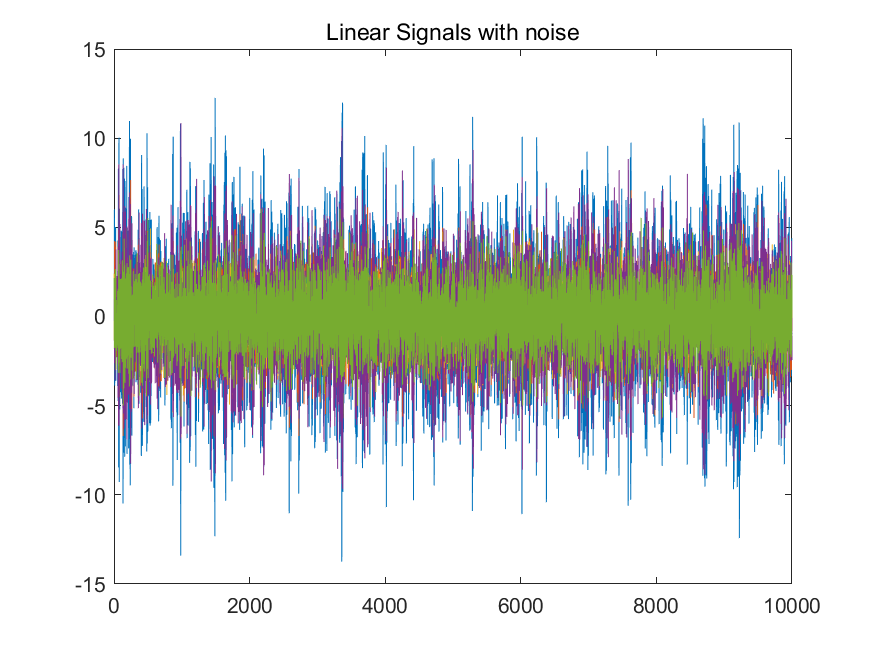
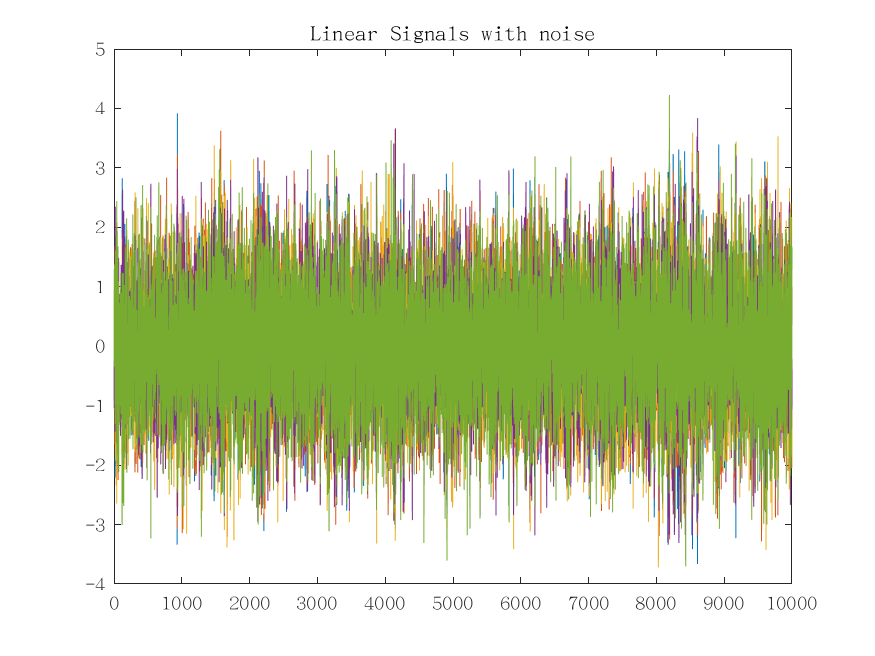
update

diff --git a/seizure_WGCI.py b/seizure_WGCI.py
@@ -3,7 +3,7 @@ import numpy as np
 import torch
 from torch import nn, optim
 
-from core import (Timer, get_Granger_Causality, get_json_data, get_mat_data, make_loader, matshow, set_device, time_series_split)
+from core import (Timer, get_Granger_Causality, get_json_data, get_mat_data, make_loader, matshow, save_3Darray, set_device, time_series_split)
 from Models import AdaBound, Modeler, RNN_Net
 
 
@@ -67,18 +67,21 @@ def get_person_WGCI(data_saved_name, data_field, cfg):
 
 def train_net(train_set, valid_set, test_set, in_dim, out_dim, cfg):
     # 在完整数据集上训练模型
-    train_loader, valid_loader, test_loader = make_loader(
-        train_set, valid_set, test_set, seq_len=cfg['seq_len'], num_shift=cfg['num_shift'], bt_sz=cfg['bt_sz'])
+    train_loader, valid_loader, test_loader = make_loader(train_set,
+                                                          valid_set,
+                                                          test_set,
+                                                          seq_len=cfg['seq_len'],
+                                                          num_shift=cfg['num_shift'],
+                                                          bt_sz=cfg['bt_sz'])
 
     # 创建模型实例
-    net = RNN_Net(
-        in_dim,
-        cfg['hidden_dim'],
-        out_dim,
-        rnn_type=cfg['rnn_type'],
-        num_layers=cfg['num_layers'],
-        dropout=cfg['dropout'],
-        bidirectional=cfg['bidirectional'])
+    net = RNN_Net(in_dim,
+                  cfg['hidden_dim'],
+                  out_dim,
+                  rnn_type=cfg['rnn_type'],
+                  num_layers=cfg['num_layers'],
+                  dropout=cfg['dropout'],
+                  bidirectional=cfg['bidirectional'])
 
     # 优化器定义
     opt = AdaBound(net.parameters(), lr=cfg['lr_rate'], weight_decay=cfg['weight_decay'])
@@ -112,18 +115,31 @@ def train_net(train_set, valid_set, test_set, in_dim, out_dim, cfg):
 if __name__ == '__main__':
     # 设置参数
     cfg = get_json_data('configs/seizure.json')
+    cfg1 = get_json_data('configs/pre_ictal.json')
     device = set_device()
-    # data_root = r'Data/Pp4_Dp1_seizure.mat'
-    # data_root = r'Data/Pp4_Dp1.mat'
-    data_root = r'Data/EEG72s_data.mat'
+    data_root = r'Data/'
+    data_root1 = r'Data/pre_ictal.mat'
     save_root = r'seizure/'
 
-    WGCI = 0
+    # seizure ictal1 计算
+    WGCI_ictal1 = 0
     for _ in range(cfg['num_trials']):
-        # WGCI += get_person_WGCI(data_root, 'data', cfg)
-        # WGCI = get_person_WGCI(data_root, 'Pp4_Dp1', cfg)
-        WGCI = get_person_WGCI(data_root, 'EEG72s_data', cfg)
+        WGCI_ictal1 = get_person_WGCI(f'{data_root}ictal1.mat', 'ictal1', cfg)
+    print(WGCI_ictal1)
+    save_3Darray(f'{save_root}WGCI_ictal1.txt', WGCI_ictal1)
 
-    WGCI /= cfg['num_trials']
-    print(WGCI)
-    np.savetxt(f'{save_root}WGCI.txt', WGCI)
+    # seizure ictal2 计算
+    WGCI_ictal2 = 0
+    for _ in range(cfg['num_trials']):
+        WGCI_ictal2 = get_person_WGCI(f'{data_root}ictal2.mat', 'ictal2', cfg)
+    print(WGCI_ictal2)
+    save_3Darray(f'{save_root}WGCI_ictal2.txt', WGCI_ictal2)
+
+    # pre_ictal
+    WGCI_pre_ictal = 0
+    for _ in range(cfg1['num_trials']):
+        WGCI_pre_ictal = get_person_WGCI(data_root1, 'pre_ictal', cfg1)
+
+    WGCI_pre_ictal /= cfg1['num_trials']
+    print(WGCI_pre_ictal)
+    save_3Darray(f'{save_root}WGCI_pre_ictal.txt', WGCI_pre_ictal)

diff --git a/RNN_GC.py b/RNN_GC.py
@@ -14,12 +14,21 @@ from Models import AdaBound, Modeler, RNN_Net
 
 def train_net(train_set, valid_set, test_set, in_dim, out_dim, cfg):
     # 在完整数据集上训练模型
-    train_loader, valid_loader, test_loader = make_loader(
-        train_set, valid_set, test_set, seq_len=cfg['seq_len'], num_shift=cfg['num_shift'], bt_sz=cfg['bt_sz'])
+    train_loader, valid_loader, test_loader = make_loader(train_set,
+                                                          valid_set,
+                                                          test_set,
+                                                          seq_len=cfg['seq_len'],
+                                                          num_shift=cfg['num_shift'],
+                                                          bt_sz=cfg['bt_sz'])
 
     # 创建模型实例
-    net = RNN_Net(
-        in_dim, cfg['hidden_dim'], out_dim, rnn_type=cfg['rnn_type'], num_layers=cfg['num_layers'], dropout=cfg['dropout'], bidirectional=cfg['bidirectional'])
+    net = RNN_Net(in_dim,
+                  cfg['hidden_dim'],
+                  out_dim,
+                  rnn_type=cfg['rnn_type'],
+                  num_layers=cfg['num_layers'],
+                  dropout=cfg['dropout'],
+                  bidirectional=cfg['bidirectional'])
 
     # 优化器定义
     opt = AdaBound(net.parameters(), lr=cfg['lr_rate'], weight_decay=cfg['weight_decay'])
@@ -123,13 +132,13 @@ if __name__ == '__main__':
     # label = ['ch' + str(t + 1) for t in range(5)]
     # matshow(ground_truth, label, label, f'Ground truth Granger Causality Matrix', f'images/Ground_truth_Granger_Matrix.png')
 
-    gc_matrix = 0
     for signal_type in all_signal_type:
-    # signal_type = all_signal_type[3]
         print(f'signal type: {signal_type}')
+        gc_matrix = 0
         cfg = config[signal_type]
-        gc_matrix = main(signal_type, all_signal_type, cfg)
-        gc_matrix = np.squeeze(gc_matrix)
+        for _ in range(cfg['num_trials']):
+            gc_matrix += main(signal_type, all_signal_type, cfg)
+        gc_matrix = np.squeeze(gc_matrix / cfg['num_trials'])
         gc_matrix[gc_matrix < cfg['threshold']] = 0.    # 阈值处理
         label = ['ch' + str(t + 1) for t in range(cfg['num_channel'])]
         matshow(gc_matrix, label, label, f'{signal_type} Granger Causality Matrix', f'images/without_NUE/{signal_type}_Granger_Matrix.png')

diff --git a/Models/modeler.py b/Models/modeler.py
@@ -6,7 +6,7 @@ Ref: https://github.com/pytorch/examples/blob/master/word_language_model/main.py
 
 import torch
 import torch.nn.functional as F
-from tensorboardX import SummaryWriter
+# from tensorboardX import SummaryWriter
 from torch import nn
 
 
@@ -21,20 +21,21 @@ class Modeler:
             visualization (bool, optional): Defaults to False.
     """
 
-    def __init__(self, network, opt, criterion, device, visualization=False):
+    # def __init__(self, network, opt, criterion, device, visualization=False):
+    def __init__(self, network, opt, criterion, device):
         self.model = nn.DataParallel(network).to(device) if torch.cuda.device_count() > 1 else network.to(device)
         self.opt = opt
         self.criterion = criterion
         self.dev = device
         self.tsfm = lambda a: a.to(self.dev).float()
-        self.visualization = visualization
-        if self.visualization:
-            self.write = SummaryWriter('log/')
+        # self.visualization = visualization
+        # if self.visualization:
+        #     self.write = SummaryWriter('log/')
 
-    def __del__(self):
-        """close the tensorboard write."""
-        if self.visualization:
-            self.write.close()
+    # def __del__(self):
+    #     """close the tensorboard write."""
+    #     if self.visualization:
+    #         self.write.close()
 
     def train_model(self, loaders, epoch=None):
         """train model on each epoch.
@@ -63,8 +64,8 @@ class Modeler:
             loss.backward()
             self.opt.step()
             
-        if epoch is not None:
-            self.write.add_scalar('train loss', loss.item(), epoch)
+        # if epoch is not None:
+        #     self.write.add_scalar('train loss', loss.item(), epoch)
         return loss.item()
 
     @torch.no_grad()
@@ -86,8 +87,8 @@ class Modeler:
             data, target = self.tsfm(data), self.tsfm(target)
             out = self.model(data)
             loss = self.criterion(out, target)
-        if epoch is not None:
-            self.write.add_scalar('evaluate loss', loss.item(), epoch)
+        # if epoch is not None:
+        #     self.write.add_scalar('evaluate loss', loss.item(), epoch)
         return loss.item()
 
     @torch.no_grad()

diff --git a/Data/make_sim_ARdata.m b/Data/make_sim_ARdata.m
@@ -30,7 +30,7 @@ end
 % 设置线性信号并保存仿真数据
 linear_signals = [x1, x2, x3, x4, x5];
 linear_signals = linear_signals((max_lag+1):(max_lag+npoint), :);
-% linear_signals = mapminmax(linear_signals.', -1, 1).';
+linear_signals = zscore(linear_signals);
 plot(linear_signals);
 if flag == 1
     % 含有噪音
@@ -56,7 +56,7 @@ end
 % 设置非线性信号并保存仿真数据
 nonlinear_signals = [x1, x2, x3, x4, x5];
 nonlinear_signals = nonlinear_signals((max_lag+1):(max_lag+npoint), :);
-% nonlinear_signals = mapminmax(nonlinear_signals.', -1, 1).';
+nonlinear_signals = zscore(nonlinear_signals);
 plot(nonlinear_signals);
 if flag == 1
     % 含有噪音
@@ -82,7 +82,7 @@ end
 % 设置长时延非线性信号并保存仿真数据
 longlag_nonlinear_signals = [x1, x2, x3, x4, x5];
 longlag_nonlinear_signals = longlag_nonlinear_signals((max_lag+1):(max_lag+npoint), :);
-% longlag_nonlinear_signals = mapminmax(longlag_nonlinear_signals.', -1, 1).';
+longlag_nonlinear_signals = zscore(longlag_nonlinear_signals);
 plot(longlag_nonlinear_signals);
 if flag == 1
     % 含有噪音
@@ -95,6 +95,16 @@ else
     saveas(gcf, '../images/longlag_nonlinear_signals_info_noise0.png')
     save('longlag_nonlinear_signals_noise0.mat', 'longlag_nonlinear_signals');
 end
+
+% iEEG
+load('dat64s.mat');
+EEG64s = zscore(dat_64s);
+plot(EEG64s);
+saveas(gcf, '../images/EEG64s.png');
+mesh(EEG64s);
+saveas(gcf, '../images/EEG64s_mesh.png');
+save('EEG64s.mat', 'EEG64s');
+save()
 
 % 后续处理
 close all;

diff --git a/true_test.py b/true_test.py
@@ -68,18 +68,21 @@ def get_person_WGCI(data_saved_name, data_field, cfg):
 
 def train_net(train_set, valid_set, test_set, in_dim, out_dim, cfg):
     # 在完整数据集上训练模型
-    train_loader, valid_loader, test_loader = make_loader(
-        train_set, valid_set, test_set, seq_len=cfg['seq_len'], num_shift=cfg['num_shift'], bt_sz=cfg['bt_sz'])
+    train_loader, valid_loader, test_loader = make_loader(train_set,
+                                                          valid_set,
+                                                          test_set,
+                                                          seq_len=cfg['seq_len'],
+                                                          num_shift=cfg['num_shift'],
+                                                          bt_sz=cfg['bt_sz'])
 
     # 创建模型实例
-    net = RNN_Net(
-        in_dim,
-        cfg['hidden_dim'],
-        out_dim,
-        rnn_type=cfg['rnn_type'],
-        num_layers=cfg['num_layers'],
-        dropout=cfg['dropout'],
-        bidirectional=cfg['bidirectional'])
+    net = RNN_Net(in_dim,
+                  cfg['hidden_dim'],
+                  out_dim,
+                  rnn_type=cfg['rnn_type'],
+                  num_layers=cfg['num_layers'],
+                  dropout=cfg['dropout'],
+                  bidirectional=cfg['bidirectional'])
 
     # 优化器定义
     opt = AdaBound(net.parameters(), lr=cfg['lr_rate'], weight_decay=cfg['weight_decay'])

diff --git a/core/loader.py b/core/loader.py
@@ -72,7 +72,7 @@ def time_series_split(data: np.ndarray, splits=[0.8, 0.1, 0.1]):
 def normalize(train_data, valid_data, test_data):
     """归一化数据(一定是在训练集测试集已经划分完后进行)
 
-    EEG 数据有正有负，归一化到 [-1, 1]
+    EEG 数据有正有负，标准归一化
 
     Args:
         train_data (np.ndarray): 未经过归一化的训练集原始数据
@@ -81,16 +81,14 @@ def normalize(train_data, valid_data, test_data):
     """
 
     from sklearn import preprocessing as skp
-    def rescaler(x, scalers):
-        new_data = scalers.transform(x) * (1 - (-1)) - 1
-        return new_data
 
     dim = train_data.shape[-1]
     s1, s2, s3 = train_data.shape, valid_data.shape, test_data.shape
-    scaler = skp.MinMaxScaler().fit(train_data.reshape(-1, dim))
-    train_data = rescaler(train_data.reshape(-1, dim), scaler).reshape(s1)
-    valid_data = rescaler(valid_data.reshape(-1, dim), scaler).reshape(s2)
-    test_data = rescaler(test_data.reshape(-1, dim), scaler).reshape(s3)
+
+    scaler = skp.StandardScaler().fit(train_data.reshape(-1, dim))
+    train_data = scaler.transform(train_data.reshape(-1, dim)).reshape(s1)
+    valid_data = scaler.transform(valid_data.reshape(-1, dim)).reshape(s2)
+    test_data = scaler.transform(test_data.reshape(-1, dim)).reshape(s3)
     return train_data, valid_data, test_data
 
 

diff --git a/Data/ictal_cal.m b/Data/ictal_cal.m
@@ -1,0 +1,31 @@
+clear;clc;
+Fs = 256;
+O = [1, 2, 4, 5, 7, 8, 12];
+P = [6, 10, 11, 15, 19];
+N = [3, 9, 13, 14, 16, 17, 18, 20];
+load('EEG72s.mat');
+
+% 标准归一化
+EEG72s = zscore(EEG72s);
+
+% 2~18s pre-ictal
+id1 = [2, 18];
+pre_ictal = EEG72s(id1(1)*Fs:id1(2)*Fs, [O, P]);
+
+% 22~50 seizure
+id2 = [22, 50];
+seizure = EEG72s(id2(1)*Fs:id2(2)*Fs, [O, P]);
+
+% ictal1 [22, 38]
+id3 = [22, 38];
+ictal1 = EEG72s(id3(1)*Fs:id3(2)*Fs, [O, P]);
+
+% ictal2 [30, 46]
+id4= [30, 46];
+ictal2 = EEG72s(id4(1)*Fs:id4(2)*Fs, [O, P]);
+
+% 保存数据
+save('seizure.mat', 'seizure');
+save('pre_ictal.mat', 'pre_ictal');
+save('ictal1.mat', 'ictal1');
+save('ictal2.mat', 'ictal2');

diff --git a/dev_seq_len_test.py b/dev_seq_len_test.py
@@ -37,8 +37,7 @@ def main(seq_length):
     seqdata_all = get_mat_data(f'dev_seq_data/{signal_type}.mat', f'{signal_type}')    # 读取数据
 
     # 在完整数据集上训练模型
-    train_loader, valid_loader, test_loader = make_loader(
-        seqdata_all, tt_split=0.7, tv_split=0.8, seq_len=seq_length, bt_sz=32)
+    train_loader, valid_loader, test_loader = make_loader(seqdata_all, tt_split=0.7, tv_split=0.8, seq_len=seq_length, bt_sz=32)
     loaders = {'train': train_loader, 'valid': valid_loader}
     err_all = train_valid(2, 15, 2, test_loader.dataset.get_tensor_data(), loaders)
 
